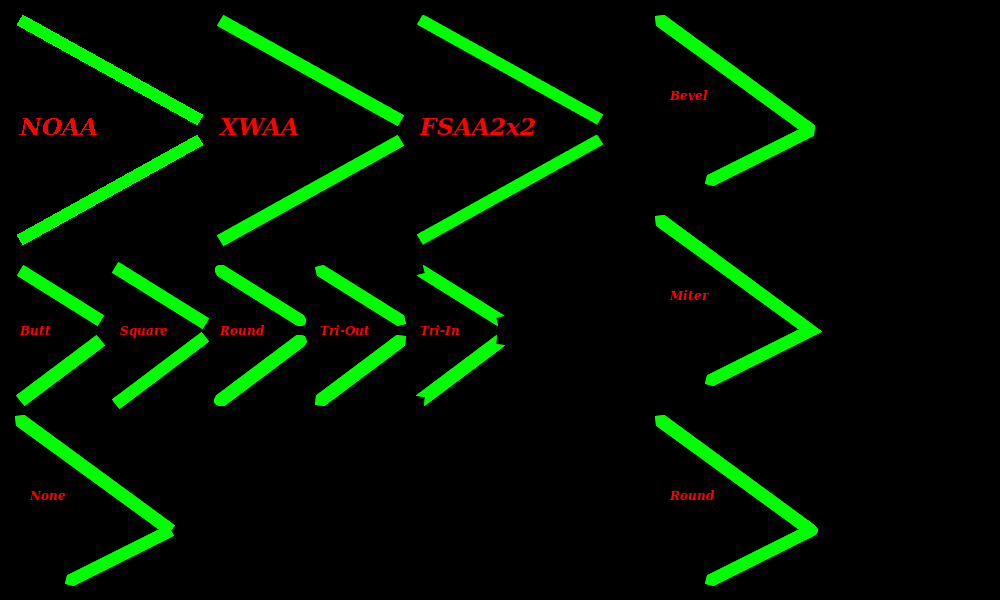
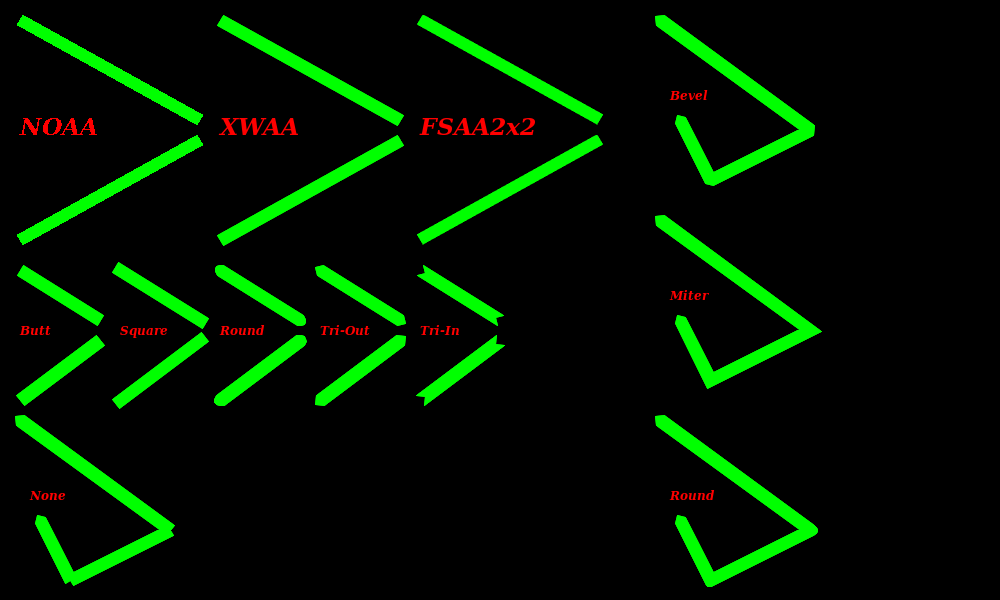
Working on thick polygon - bux fix

diff --git a/src/Pt-Gfx/tests/ImagePainterTest2_Draw_Thick.cpp b/src/Pt-Gfx/tests/ImagePainterTest2_Draw_Thick.cpp
@@ -83,6 +83,7 @@ static void testDrawSolidThickLine(const char* title, Image& image, Painter& pai
     // Test joins
     painter.setPen(penOCapBJoin);
     const PointF poly1a[] = { // CCW
+        PointF(670 + 10, 120),
         PointF(700 + 10, 180),
         PointF(800 + 10, 130),
         PointF(650 + 10,  20)
@@ -91,6 +92,7 @@ static void testDrawSolidThickLine(const char* title, Image& image, Painter& pai
     else painter.drawPolyline( poly1a, sizeof(poly1a) / sizeof(poly1a[0]) );
 
     const PointF poly1b[] = { // CCW
+        PointF(670 + 170, 120),
         PointF(700 + 170, 180),
         PointF(800 + 170, 130),
         PointF(650 + 170,  20)
@@ -102,6 +104,7 @@ static void testDrawSolidThickLine(const char* title, Image& image, Painter& pai
 
     painter.setPen(penOCapMJoin);
     const PointF poly2a[] = { // CCW
+        PointF(670 + 10, 120 + 200),
         PointF(700 + 10, 180 + 200),
         PointF(800 + 10, 130 + 200),
         PointF(650 + 10,  20 + 200)
@@ -110,6 +113,7 @@ static void testDrawSolidThickLine(const char* title, Image& image, Painter& pai
     else painter.drawPolyline( poly2a, sizeof(poly2a) / sizeof(poly2a[0]) );
 
     const PointF poly2b[] = { // CCW
+        PointF(670 + 170, 120 + 200),
         PointF(700 + 170, 180 + 200),
         PointF(800 + 170, 130 + 200),
         PointF(650 + 170,  20 + 200)
@@ -121,6 +125,7 @@ static void testDrawSolidThickLine(const char* title, Image& image, Painter& pai
 
     painter.setPen(penOCapRJoin);
     const PointF poly3a[] = { // CCW
+        PointF(670 + 10, 120 + 400),
         PointF(700 + 10, 180 + 400),
         PointF(800 + 10, 130 + 400),
         PointF(650 + 10,  20 + 400)
@@ -129,6 +134,7 @@ static void testDrawSolidThickLine(const char* title, Image& image, Painter& pai
     else painter.drawPolyline( poly3a, sizeof(poly3a) / sizeof(poly3a[0]) );
 
     const PointF poly3b[] = { // CCW
+        PointF(670 + 170, 120 + 400),
         PointF(700 + 170, 180 + 400),
         PointF(800 + 170, 130 + 400),
         PointF(650 + 170,  20 + 400)
@@ -140,6 +146,7 @@ static void testDrawSolidThickLine(const char* title, Image& image, Painter& pai
 
     painter.setPen(penOCapNJoin);
     const PointF poly4a[] = { // CCW
+        PointF(670 - 600 - 30, 120 + 400),
         PointF(700 - 600 - 30, 180 + 400),
         PointF(800 - 600 - 30, 130 + 400),
         PointF(650 - 600 - 30,  20 + 400)
@@ -148,6 +155,7 @@ static void testDrawSolidThickLine(const char* title, Image& image, Painter& pai
     else painter.drawPolyline( poly4a, sizeof(poly4a) / sizeof(poly4a[0]) );
 
     const PointF poly4b[] = { // CCW
+        PointF(670 - 430 - 40, 120 + 400),
         PointF(700 - 430 - 40, 180 + 400),
         PointF(800 - 430 - 40, 130 + 400),
         PointF(650 - 430 - 40,  20 + 400)

diff --git a/src/Pt-Gfx/ImagePainter2.cpp b/src/Pt-Gfx/ImagePainter2.cpp
@@ -510,12 +510,8 @@ bool ImagePainter2::thickenOpenPolygon(std::vector<PointF>& pointsF, const Point
         // Solid line
         if(_rasterizer->pen().style() == Pen::Solid) {
             pointsFSegment.clear();
-            generateSolidLineSegment(
-                pointsFSegment, from.x(), from.y(), to.x(), to.y(), i == 0, i == curPC2
-            );
-            if(!combineLineSegmentForOpenPolygon(
-                pointsFPolygon, pointsFInner, pointsFSegment, from, i == 1, i == curPC2
-            )) return false;
+            generateSolidLineSegment(pointsFSegment, from.x(), from.y(), to.x(), to.y(), i == 0, i == curPC2);
+            if(!combineLineSegmentForOpenPolygon(pointsFPolygon, pointsFInner, pointsFSegment, from)) return false;
         }
         // Patterned line
         else {
@@ -524,7 +520,9 @@ bool ImagePainter2::thickenOpenPolygon(std::vector<PointF>& pointsF, const Point
         }
     }
 
-    finalizeLineSegmentForOpenPolygon(pointsFPolygon, pointsFInner);
+    if(_rasterizer->pen().style() == Pen::Solid) {
+        finalizeLineSegmentForOpenPolygon(pointsFPolygon, pointsFInner);
+    }
 
     // Combine the polygon data
     if(!pointsF.empty()) pointsF.push_back(Painter::PolygonSeparatorPointF);
@@ -534,7 +532,7 @@ bool ImagePainter2::thickenOpenPolygon(std::vector<PointF>& pointsF, const Point
     return true;
 }
 
-bool ImagePainter2::combineLineSegmentForOpenPolygon(std::vector<PointF>& polygon, std::vector<PointF>& inner, const std::vector<PointF>& segment, const PointF& origMeetingPoint, bool isBeg, bool isEnd)
+bool ImagePainter2::combineLineSegmentForOpenPolygon(std::vector<PointF>& polygon, std::vector<PointF>& inner, const std::vector<PointF>& segment, const PointF& origMeetingPoint)
 {
     // If the main polygon buffer is still empty, simply copy the points
     if(polygon.empty()) {
@@ -554,14 +552,10 @@ bool ImagePainter2::combineLineSegmentForOpenPolygon(std::vector<PointF>& polygo
     for(size_t i = 0; i <= N1 - 2; ++i) proc.push_back(polygon[i]);
 
     // Get the "outside" lines
-    const PointF* line1a = &polygon[1];
-    const PointF* line1b = &polygon[2];
+    const PointF* line1a = &polygon[N1 - 2];
+    const PointF* line1b = &polygon[N1 - 1];
     const PointF* line2a = &segment[1];
     const PointF* line2b = &segment[2];
-    if(isBeg) {
-        line1a = &polygon[N1 - 2];
-        line1b = &polygon[N1 - 1];
-    }
 
     // Intersect the "outside" lines
     bool   inLine;

diff --git a/include/Pt/Gfx/ImagePainter2.h b/include/Pt/Gfx/ImagePainter2.h
@@ -135,7 +135,7 @@ class PT_GFX_API ImagePainter2 : public Painter
         void generatePatternedLineSegment(std::vector<PointF>& dst, float x1, float y1, float x2, float y2, bool openingCap, bool closingCap);
 
         bool thickenOpenPolygon(std::vector<PointF>& pointsF, const PointF* basePtr, size_t curPCnt);
-        bool combineLineSegmentForOpenPolygon(std::vector<PointF>& polygon, std::vector<PointF>& inner, const std::vector<PointF>& segment, const PointF& origMeetingPoint, bool isBeg, bool isEnd);
+        bool combineLineSegmentForOpenPolygon(std::vector<PointF>& polygon, std::vector<PointF>& inner, const std::vector<PointF>& segment, const PointF& origMeetingPoint);
         void finalizeLineSegmentForOpenPolygon(std::vector<PointF>& polygon, const std::vector<PointF>& inner);
 
         bool thickenClosedPolygon(std::vector<PointF>& pointsF, const PointF* basePtr, size_t curPCnt);
